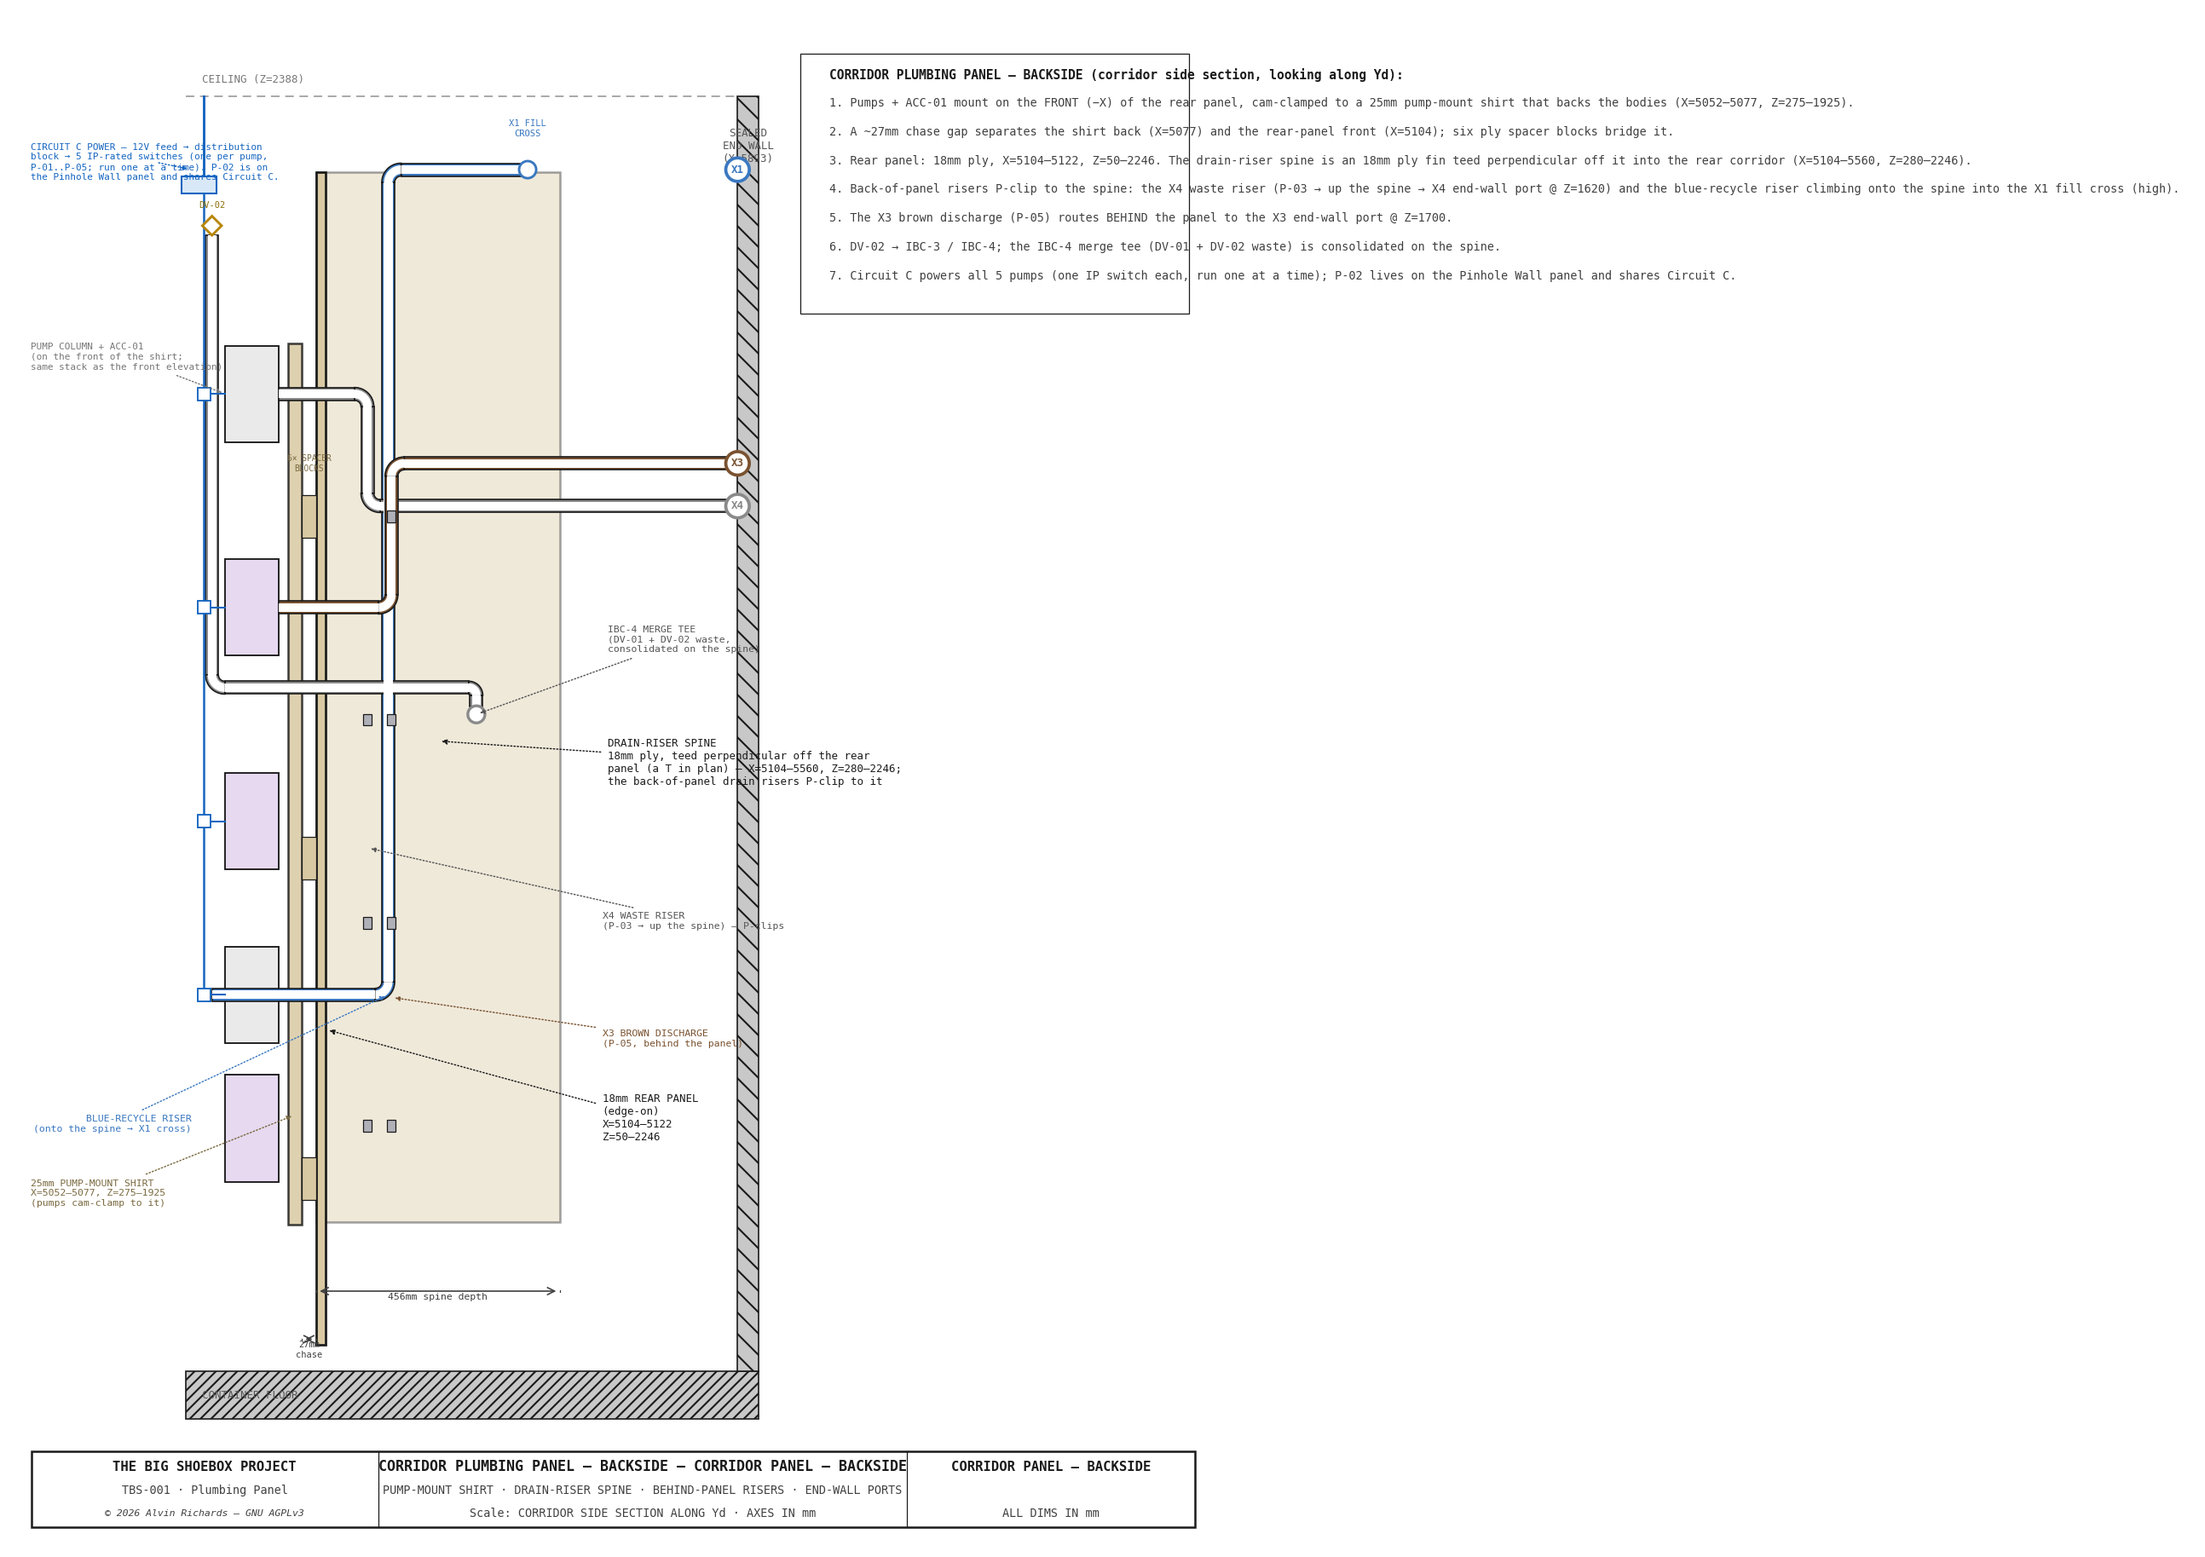
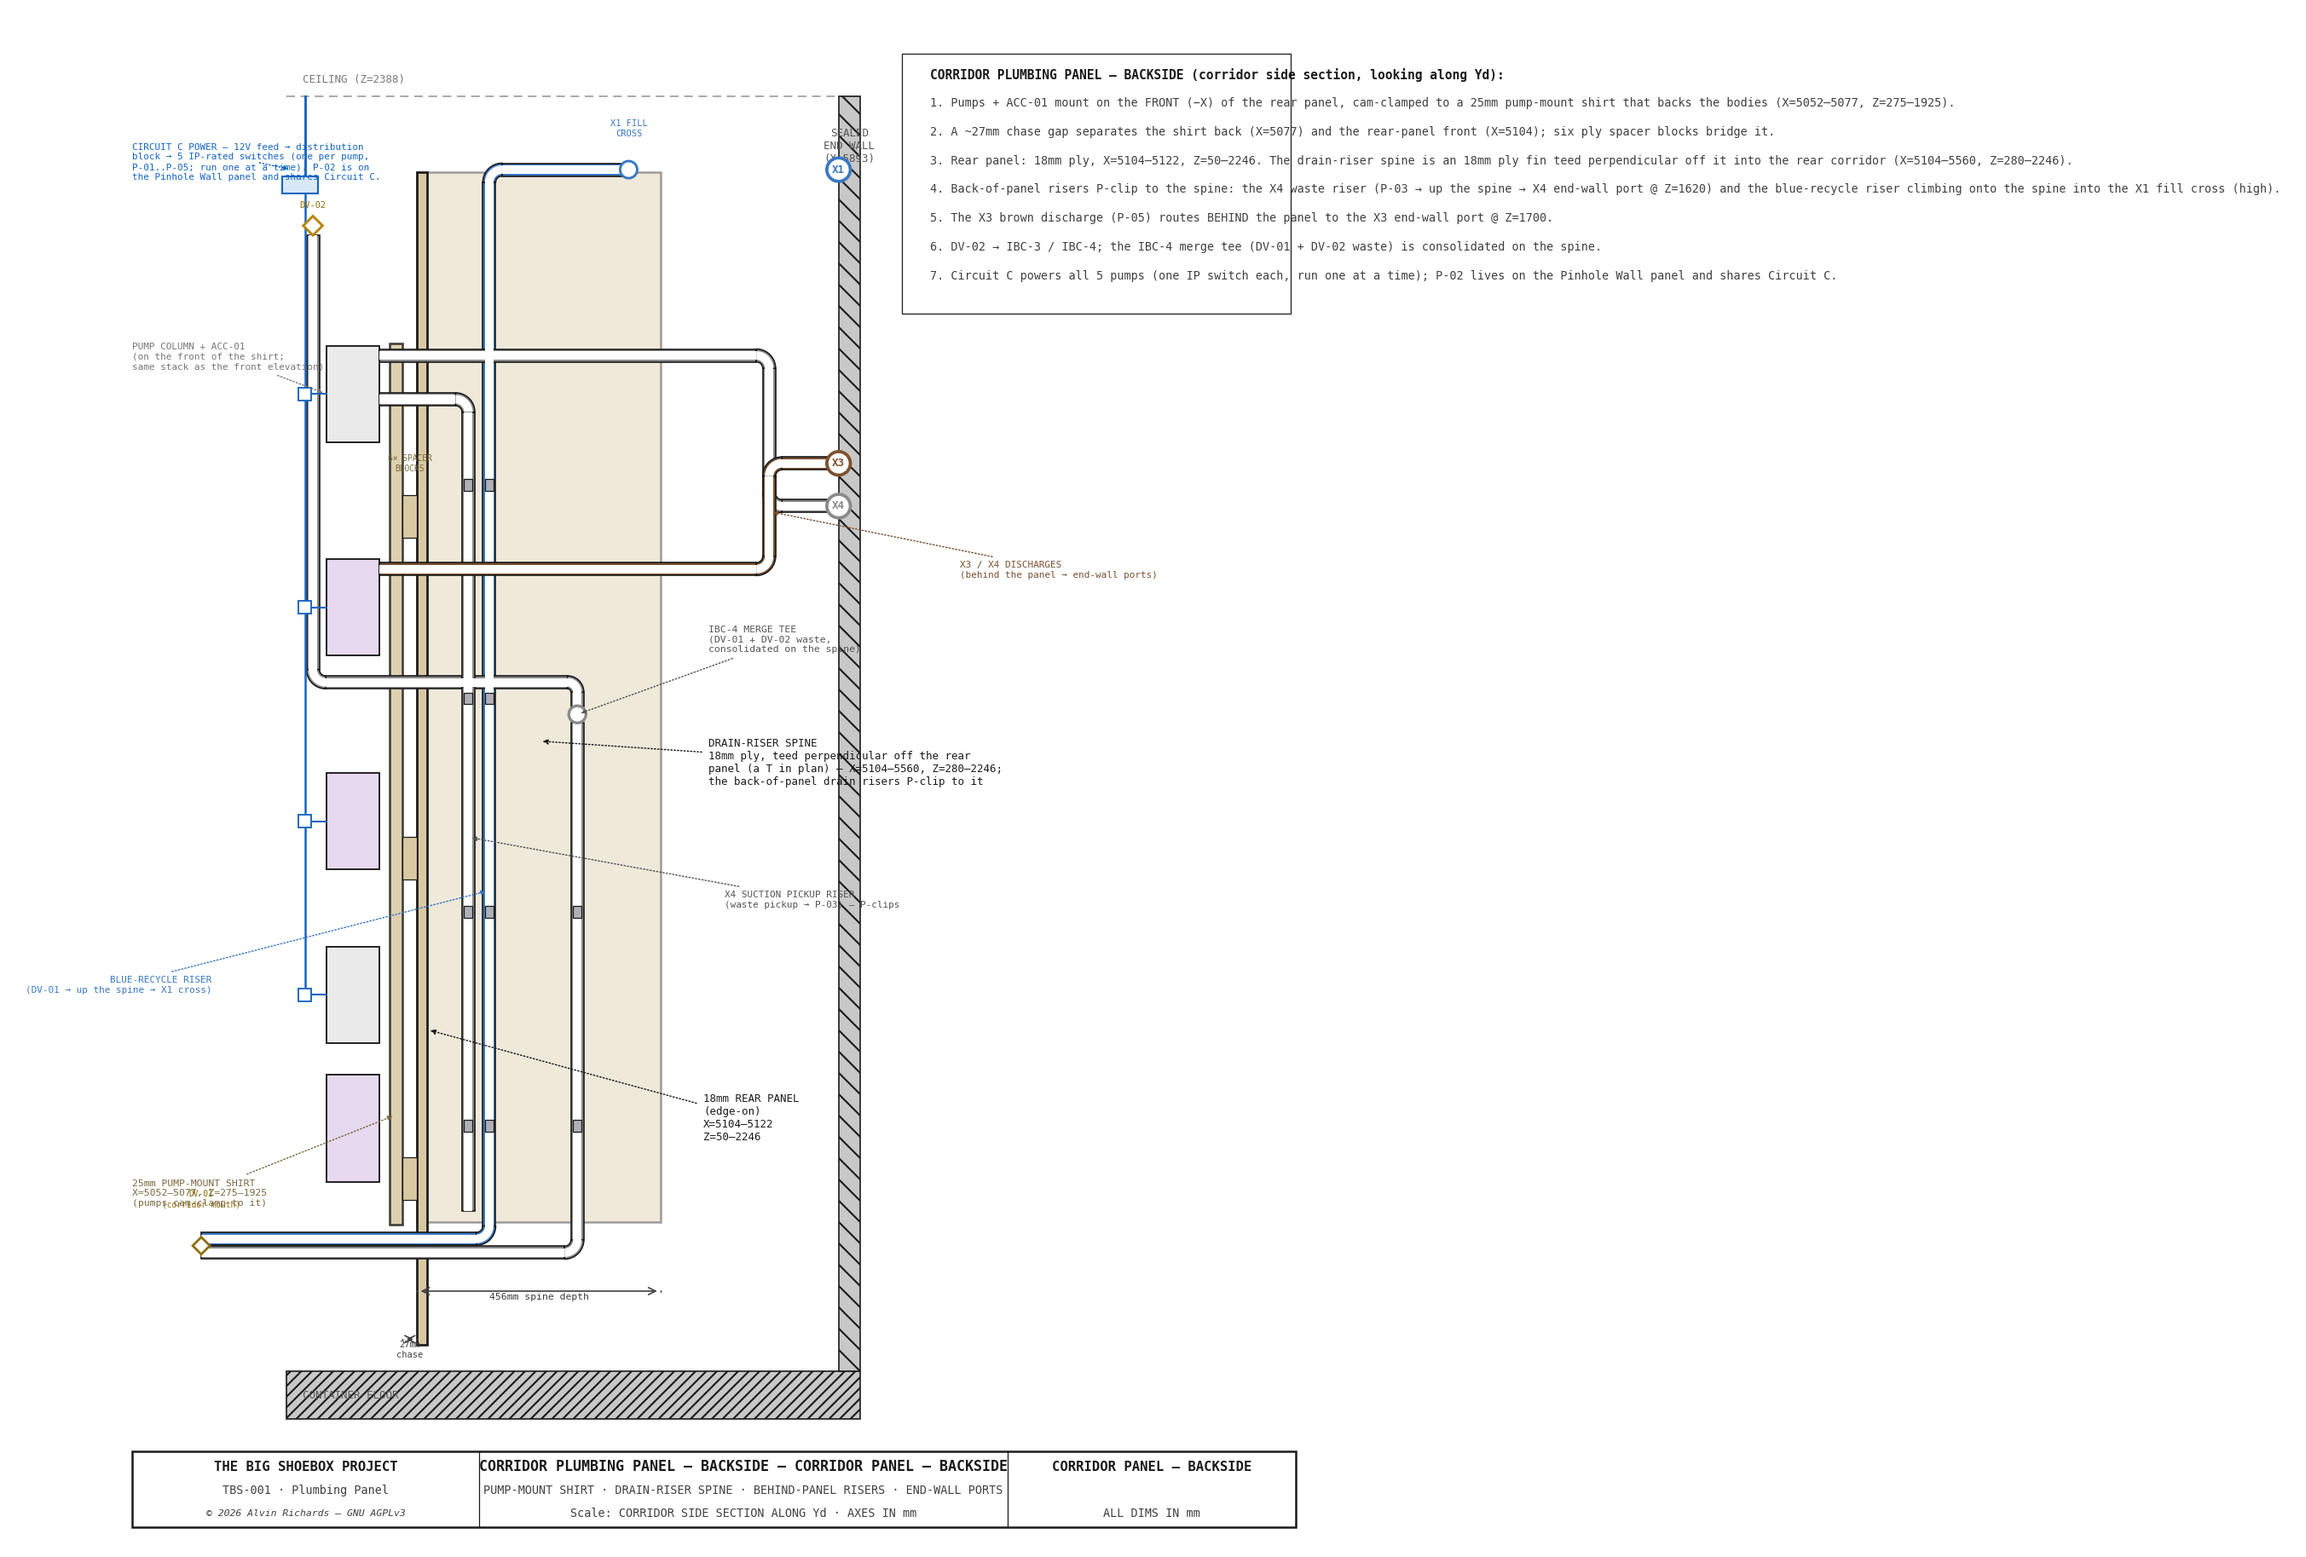
2D: fix corridor-front pipe crossings + backside routing to match 3D
- panel-layout (corridor front): the P-05 and P-03 discharges now gap-break
  where they CROSS the P-04 discharge riser (they cross, they do not join) per
  skill_plumbing_drawing.
- panel-layout-back: rerouted the back-of-panel runs to the real 3D X-Z paths
  — X4 suction pickup riser (floor->pump) split from the P-03 discharge (high
  along the spine -> X4 port); X3 (P-05) discharge behind the panel -> X3 port;
  DV-01 at the corridor mouth with its blue-recycle (-> X1 cross) and waste
  (-> IBC-4 merge) legs; DV-02 waste -> merge.

Changed region(s): [[0.0309, 0.0312, 0.8968, 0.9984], [0.402, 0.3432, 0.4639, 0.3744], [0.9586, 0.0936, 0.9896, 0.1248]]

diff --git a/src/generators/generate_panel_layout.py b/src/generators/generate_panel_layout.py
@@ -417,11 +417,14 @@ def draw_corridor_panel():
     ax.text(sx(EXIT_L - 5), sz(_P05_SUCT_Z),
             "FROM\nIBC-3\n(BROWN)", ha="right", va="center",
             fontsize=5.5, color=C_BROWN, zorder=10, **FONT)
-    # P-05 discharge: outlet (RIGHT port) → exit RIGHT to X3 port (behind panel)
-    draw_pipe_path(ax,
-        [CORR_PORT_OUT, EXIT_R],
-        [P05_PORT_Z, P05_PORT_Z],
-        PIPE_OD, PIPE_WALL, fc=C_BROWN, zorder=Z_BROWN)
+    # P-05 discharge: outlet (RIGHT port) → exit RIGHT to X3 port (behind panel).
+    # It CROSSES the P-04 discharge riser (DISCH_RISER) — they do NOT join, so the
+    # discharge is gap-broken at the crossing (skill_plumbing_drawing § crossings).
+    _xg = PIPE_OD / 2 + 3
+    draw_pipe_path(ax, [CORR_PORT_OUT, DISCH_RISER - _xg], [P05_PORT_Z, P05_PORT_Z],
+                   PIPE_OD, PIPE_WALL, fc=C_BROWN, zorder=Z_BROWN)
+    draw_pipe_path(ax, [DISCH_RISER + _xg, EXIT_R], [P05_PORT_Z, P05_PORT_Z],
+                   PIPE_OD, PIPE_WALL, fc=C_BROWN, zorder=Z_BROWN)
     ax.annotate("", xy=(sx(EXIT_R), sz(P05_PORT_Z)),
                 xytext=(sx(EXIT_R - _AW), sz(P05_PORT_Z)),
                 arrowprops=dict(**_arrow_kw, color=C_BROWN), zorder=11)
@@ -445,11 +448,12 @@ def draw_corridor_panel():
     ax.text(sx(EXIT_L - 5), sz(_P03_SUCT_Z),
             "FROM\nIBC-4\n(WASTE)", ha="right", va="center",
             fontsize=5.5, color=C_BLACK_SYS, zorder=10, **FONT)
-    # P-03 discharge: outlet (RIGHT port) → exit RIGHT to X4 port (behind panel)
-    draw_pipe_path(ax,
-        [CORR_PORT_OUT, EXIT_R],
-        [P03_PORT_Z, P03_PORT_Z],
-        PIPE_OD, PIPE_WALL, fc=C_BLACK_SYS, zorder=Z_BLACK + 0.5)
+    # P-03 discharge: outlet (RIGHT port) → exit RIGHT to X4 port (behind panel).
+    # Gap-broken where it CROSSES the P-04 discharge riser (DISCH_RISER) — cross, not join.
+    draw_pipe_path(ax, [CORR_PORT_OUT, DISCH_RISER - _xg], [P03_PORT_Z, P03_PORT_Z],
+                   PIPE_OD, PIPE_WALL, fc=C_BLACK_SYS, zorder=Z_BLACK + 0.5)
+    draw_pipe_path(ax, [DISCH_RISER + _xg, EXIT_R], [P03_PORT_Z, P03_PORT_Z],
+                   PIPE_OD, PIPE_WALL, fc=C_BLACK_SYS, zorder=Z_BLACK + 0.5)
     ax.annotate("", xy=(sx(EXIT_R), sz(P03_PORT_Z)),
                 xytext=(sx(EXIT_R - _AW), sz(P03_PORT_Z)),
                 arrowprops=dict(**_arrow_kw, color=C_BLACK_SYS), zorder=11)
@@ -962,16 +966,27 @@ leader(axb, (PANX + SPX1) / 2, 1180, 5650, 1140,
        "the back-of-panel drain risers P-clip to it",
        color=C_OUT, fs=6, ha="left", va="center", arrow_style="-|>", font=FB)
 
-# ── Back-of-panel pipe runs ──────────────────────────────────────────────
-# X4 WASTE: P-03 discharge → behind the panel → up the spine → X4 end-wall port.
-_pipe([PUMP_BACK_X, RX4, RX4, WALLX],
-      [1830, 1830, X4_PORT_Z, X4_PORT_Z], C_WASTEB, zorder=8)
-# X3 BROWN: P-05 discharge routed BEHIND the panel → X3 end-wall port (Z1700).
-_pipe([PUMP_BACK_X, 5245, 5245, WALLX],
-      [1430, 1430, X3_PORT_Z, X3_PORT_Z], C_BROWNB, zorder=9)
-# BLUE RECYCLE: rises onto the spine → X1 fill cross (high) at the sealed end.
-_pipe([DV02X, RX_BLUE, RX_BLUE, X1X],
-      [705, 705, X1_PORT_Z, X1_PORT_Z], C_BLUEB, zorder=7)
+# ── Back-of-panel pipe runs (faithful X–Z routing from the live 3D) ───────
+DV01X = 4700                       # 3W-DV-01 X (corridor mouth, low ~Z235)
+# X4 WASTE — two grey runs: (a) the suction PICKUP riser climbs the spine from
+# the floor pickup to the pump; (b) the P-03 DISCHARGE runs high along the spine,
+# then drops to the X4 end-wall port (Z1620).
+_pipe([RX4, RX4, PUMP_BACK_X], [300, 1820, 1820], C_WASTEB, zorder=8)
+_pipe([PUMP_BACK_X, 5763, 5763, WALLX],
+      [1902, 1902, X4_PORT_Z, X4_PORT_Z], C_WASTEB, zorder=8)
+# X3 BROWN — P-05 discharge routed BEHIND the panel, rising to the X3 port (Z1700).
+_pipe([PUMP_BACK_X, 5763, 5763, WALLX],
+      [1502, 1502, X3_PORT_Z, X3_PORT_Z], C_BROWNB, zorder=9)
+# DV-01 — pH-gated filter-output diverter, low at the corridor mouth; two legs:
+#   BLUE RECYCLE rises up the spine → X1 fill cross; WASTE → the IBC-4 merge tee.
+axb.add_patch(mpatches.Polygon(
+    [(DV01X, 251), (DV01X + 16, 235), (DV01X, 219), (DV01X - 16, 235)],
+    fc="white", ec="#8A6D08", lw=1.3, zorder=12))
+axb.text(DV01X, 305, "DV-01\n(corridor mouth)", fontsize=4.6, ha="center",
+         va="bottom", color="#8A6D08", zorder=13, **FB)
+_pipe([DV01X, RX_BLUE, RX_BLUE, X1X],
+      [248, 248, X1_PORT_Z, X1_PORT_Z], C_BLUEB, zorder=7)
+_pipe([DV01X, MERGEX, MERGEX], [222, 222, 1214], C_WASTEB, zorder=6)
 # X1 fill cross + the IBC-4 merge tee, both consolidated on the spine.
 axb.add_patch(mpatches.Circle((X1X, X1_PORT_Z), 16, facecolor="white",
               edgecolor=C_BLUEB, lw=1.4, zorder=12))
@@ -982,26 +997,26 @@ axb.add_patch(mpatches.Circle((MERGEX, 1230), 16, facecolor="white",
 leader(axb, MERGEX, 1230, 5650, 1370,
        "IBC-4 MERGE TEE\n(DV-01 + DV-02 waste,\nconsolidated on the spine)",
        color="#555", fs=5.5, ha="left", va="center", arrow_style="-|>", font=FB)
-# DV-02 (above the column) → IBC-3 Brown / IBC-4 Waste legs (drop to the merge).
+# DV-02 (above the pump column) waste leg → drops to the IBC-4 merge tee.
 axb.add_patch(mpatches.Polygon(
     [(DV02X, 2145 + 18), (DV02X + 18, 2145), (DV02X, 2145 - 18), (DV02X - 18, 2145)],
     fc="white", ec="#B8860B", lw=1.4, zorder=12))
 axb.text(DV02X, 2145 + 30, "DV-02", fontsize=5, ha="center", va="bottom",
          color="#8A6D08", zorder=13, **FB)
 _pipe([DV02X, DV02X, MERGEX, MERGEX],
-      [2145 - 18, 1280, 1280, 1244], C_WASTEB, zorder=7)   # DV-02 waste → merge
-# P-clips on the back-of-panel risers (against the spine face)
-for rx, zt, n in [(RX4, X4_PORT_Z, 4), (5245, X3_PORT_Z, 4)]:
-    for i in range(n):
-        cz = 460 + i * 380
+      [2145 - 18, 1290, 1290, 1244], C_WASTEB, zorder=7)   # DV-02 waste → merge
+# P-clips fastening the spine risers (suction pickup, blue recycle, DV-01 waste).
+for rx, zt in [(RX4, 1800), (RX_BLUE, X1_PORT_Z), (MERGEX, 1214)]:
+    for i in range(4):
+        cz = 460 + i * 400
         if cz < zt - 80:
             _rect(rx - 8, cz - 11, 16, 22, C_STEEL, lw=0.6, z0=11)
-leader(axb, RX4, 980, 5640, 860, "X4 WASTE RISER\n(P-03 → up the spine) — P-clips",
-       color="#555", fs=5.5, ha="left", va="top", arrow_style="-|>", font=FB)
-leader(axb, 5245, 700, 5640, 640, "X3 BROWN DISCHARGE\n(P-05, behind the panel)",
-       color=C_BROWNB, fs=5.5, ha="left", va="top", arrow_style="-|>", font=FB)
-leader(axb, RX_BLUE, 705, 4870, 480, "BLUE-RECYCLE RISER\n(onto the spine → X1 cross)",
-       color=C_BLUEB, fs=5.5, ha="right", va="top", arrow_style="-|>", font=FB)
+leader(axb, RX4, 1000, 5680, 900, "X4 SUCTION PICKUP RISER\n(waste pickup → P-03) — P-clips",
+       color="#555", fs=5.3, ha="left", va="top", arrow_style="-|>", font=FB)
+leader(axb, 5763, 1610, 6120, 1500, "X3 / X4 DISCHARGES\n(behind the panel → end-wall ports)",
+       color=C_BROWNB, fs=5.3, ha="left", va="center", arrow_style="-|>", font=FB)
+leader(axb, RX_BLUE, 900, 4720, 740, "BLUE-RECYCLE RISER\n(DV-01 → up the spine → X1 cross)",
+       color=C_BLUEB, fs=5.3, ha="right", va="top", arrow_style="-|>", font=FB)
 
 # ── End-wall ports ───────────────────────────────────────────────────────
 for z, lab, col in [(X1_PORT_Z, "X1", C_BLUEB), (X3_PORT_Z, "X3", C_BROWNB),
